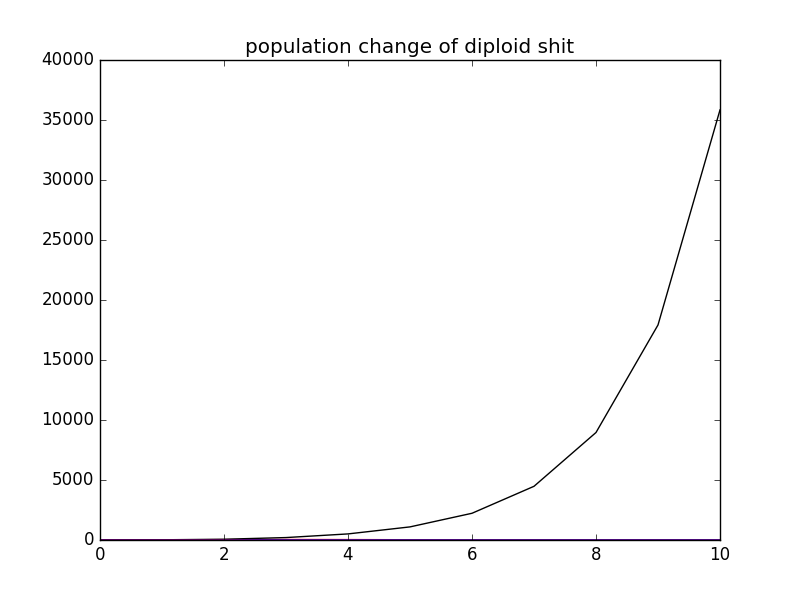
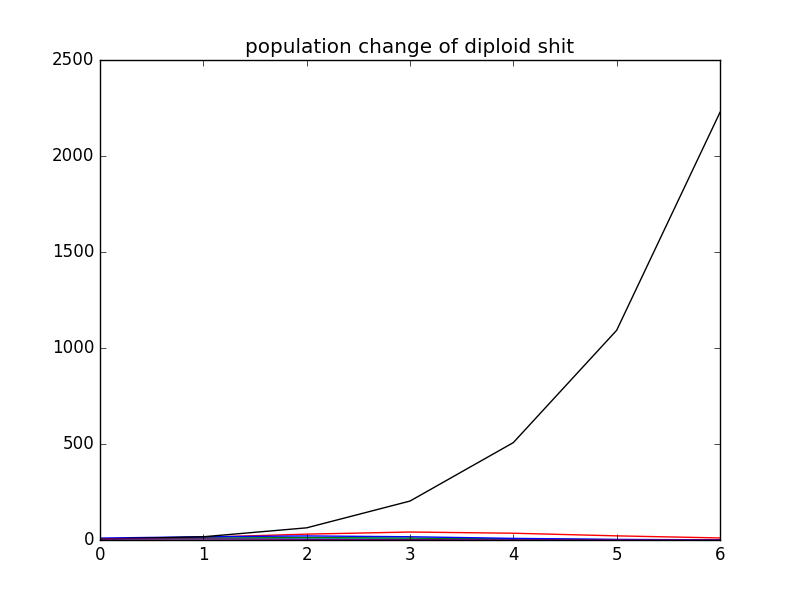
new graph output for inputs 5 5 5 4 6 10 -0.4 0.7 -0

diff --git a/take1.py b/take1.py
@@ -84,7 +84,7 @@ z = float(sys.argv[8])
 # pref of w
 t = float(sys.argv[9])
 
-gen = 10
+gen = 5
 
 
 w_list = list()
@@ -118,7 +118,7 @@ N_graph.insert(0, N_0)
 
 # h = lamed(u, p, v, z, w, K, Q, J, N_0)
 
-n = 1
+n = 0
 N = N_0
 t = 1
 while n <= gen:
@@ -168,6 +168,17 @@ while n <= gen:
     u = N * prob6
     u_list.append(u)
 
+print w_list[5]
+print u_list[5]
+print v_list[5]
+aa = (w + u + v)
+Aa = (Q + J + v)/2
+AA = (K + v + Q)/2
+
+print "frequency of aa individuals: " + str(aa)
+print "frequency of Aa individuals: " + str(Aa)
+print "frequency of AA individuals: " + str(AA)
+
 
 # plt.xlabel('Time(s)')
 # plt.ylabel('Conc (M)')
@@ -179,7 +190,7 @@ plt.plot(w_prob, 'red')
 plt.plot(J_prob, 'blue')
 plt.plot(v_prob, 'black')
 plt.plot(u_prob, 'purple')
-plt.savefig("shitall")
+plt.savefig("pair probabilities")
 plt.show()
 
 plt.title('population change of diploid shit')
